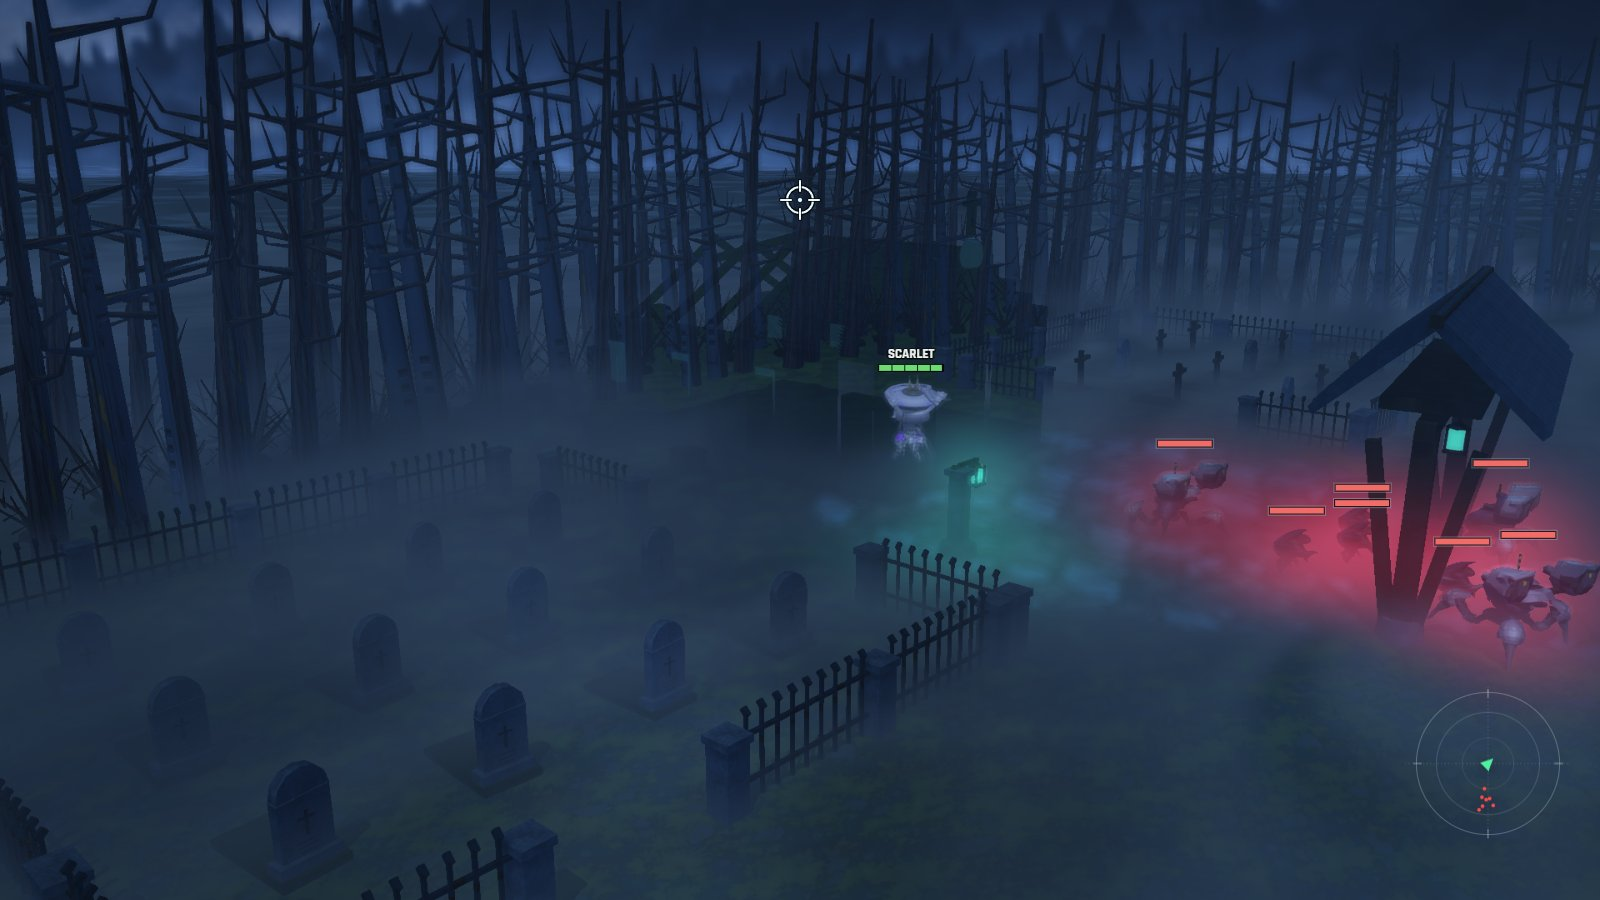
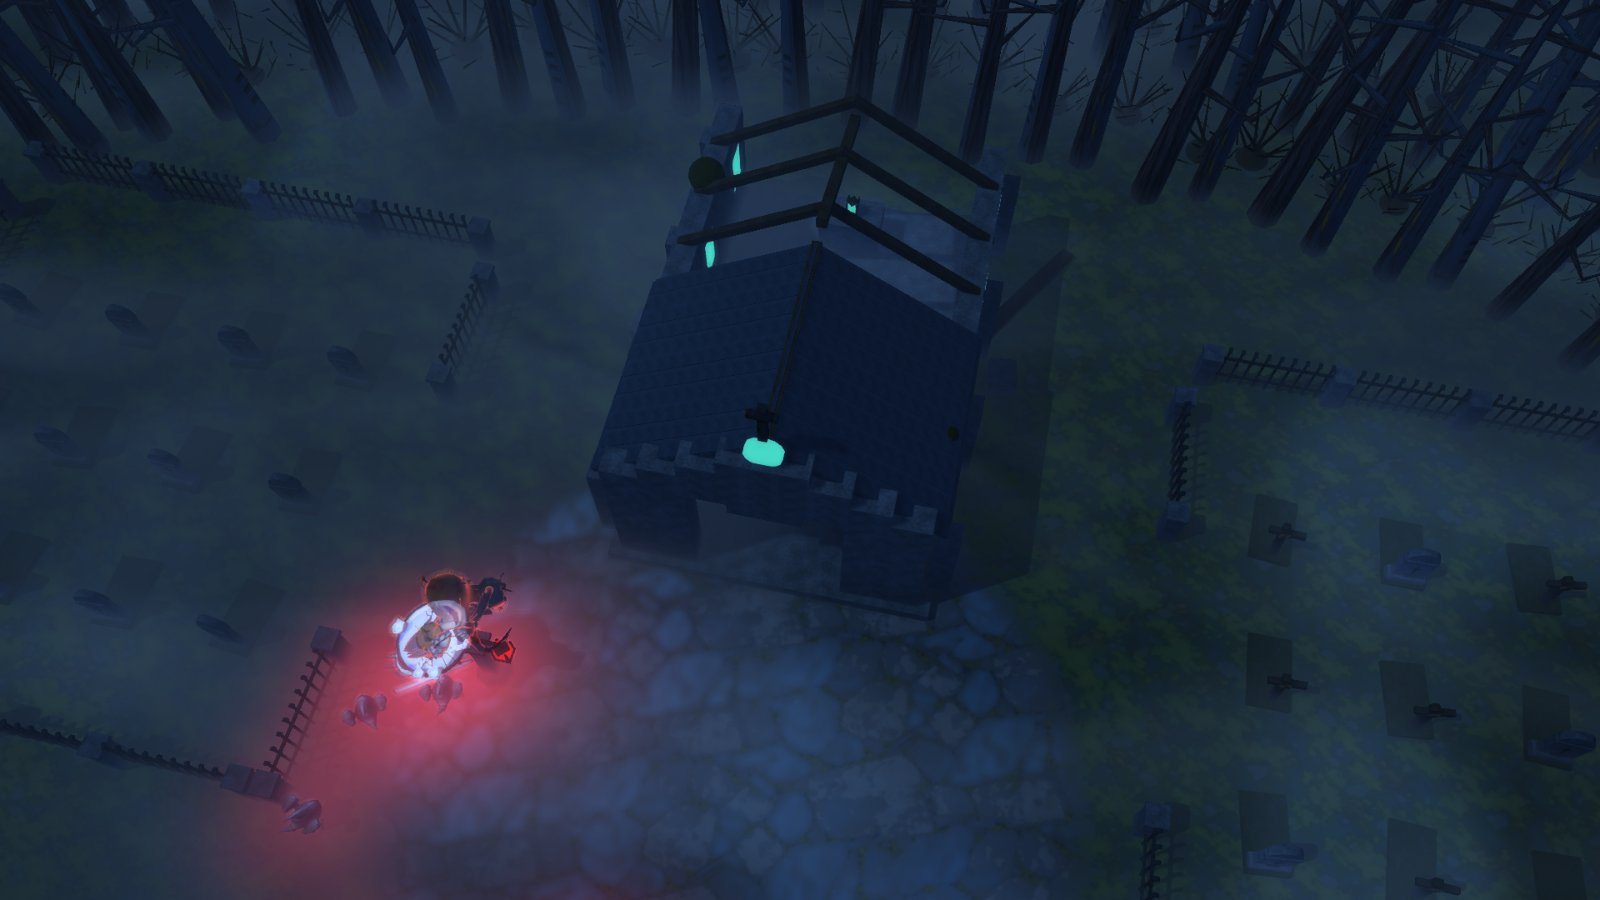
Retake the graveyard shot from above the chapel court

diff --git a/README.md b/README.md
@@ -31,7 +31,7 @@ Level up, choose talents, build Burst gauge, and survive long enough to face the
 <td width="50%"><img src="docs/screenshots/07-broken-ice.jpg" alt="Breaking ice"><br><b>Breaking ice</b> · stress cracks spread across the frozen lake until the ice gives way.</td>
 </tr>
 <tr>
-<td width="50%"><img src="docs/screenshots/08-graveyard.jpg" alt="Haunted Pine Forest"><br><b>Haunted Pine Forest</b> · a ruined chapel and its churchyard in the fog.</td>
+<td width="50%"><img src="docs/screenshots/08-graveyard.jpg" alt="Haunted Pine Forest"><br><b>Haunted Pine Forest</b> · Scarlet fighting before the ruined chapel, between its two fenced grave plots in the fog.</td>
 <td width="50%"><img src="docs/screenshots/09-liliweiss.jpg" alt="A secret in the forest"><br><b>A secret in the forest</b> · someone is waiting in the graveyard...</td>
 </tr>
 <tr>
